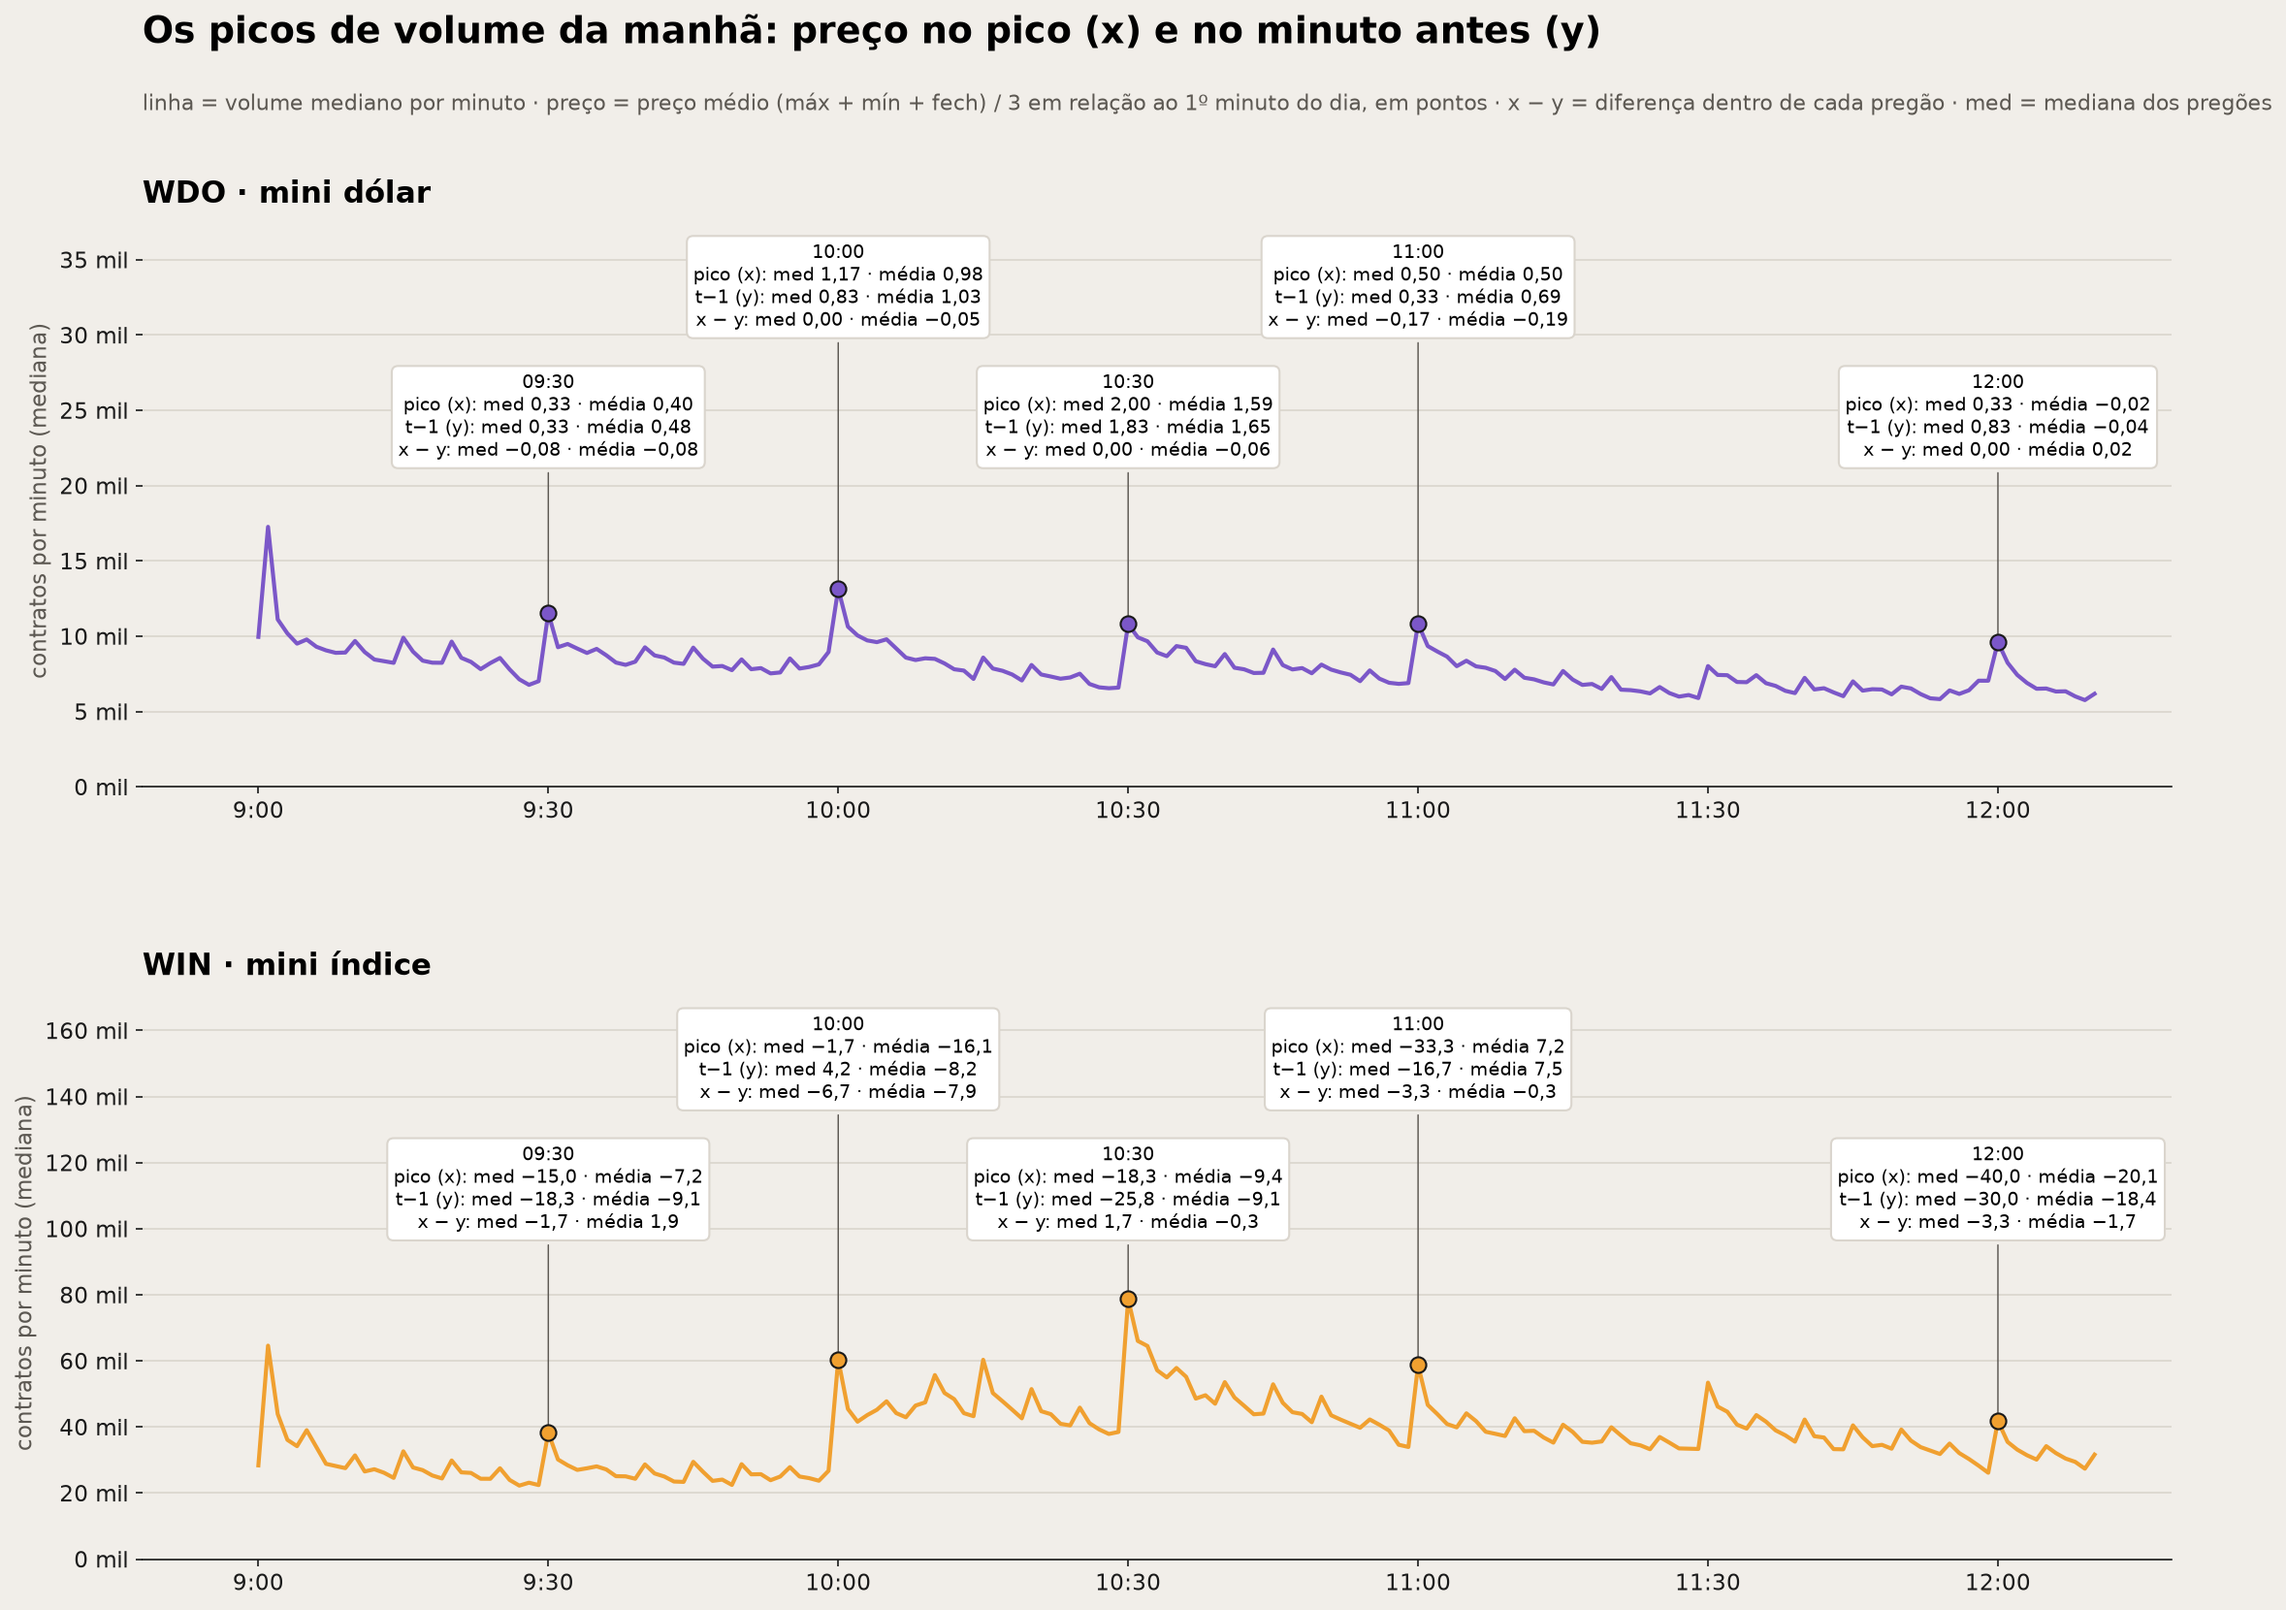
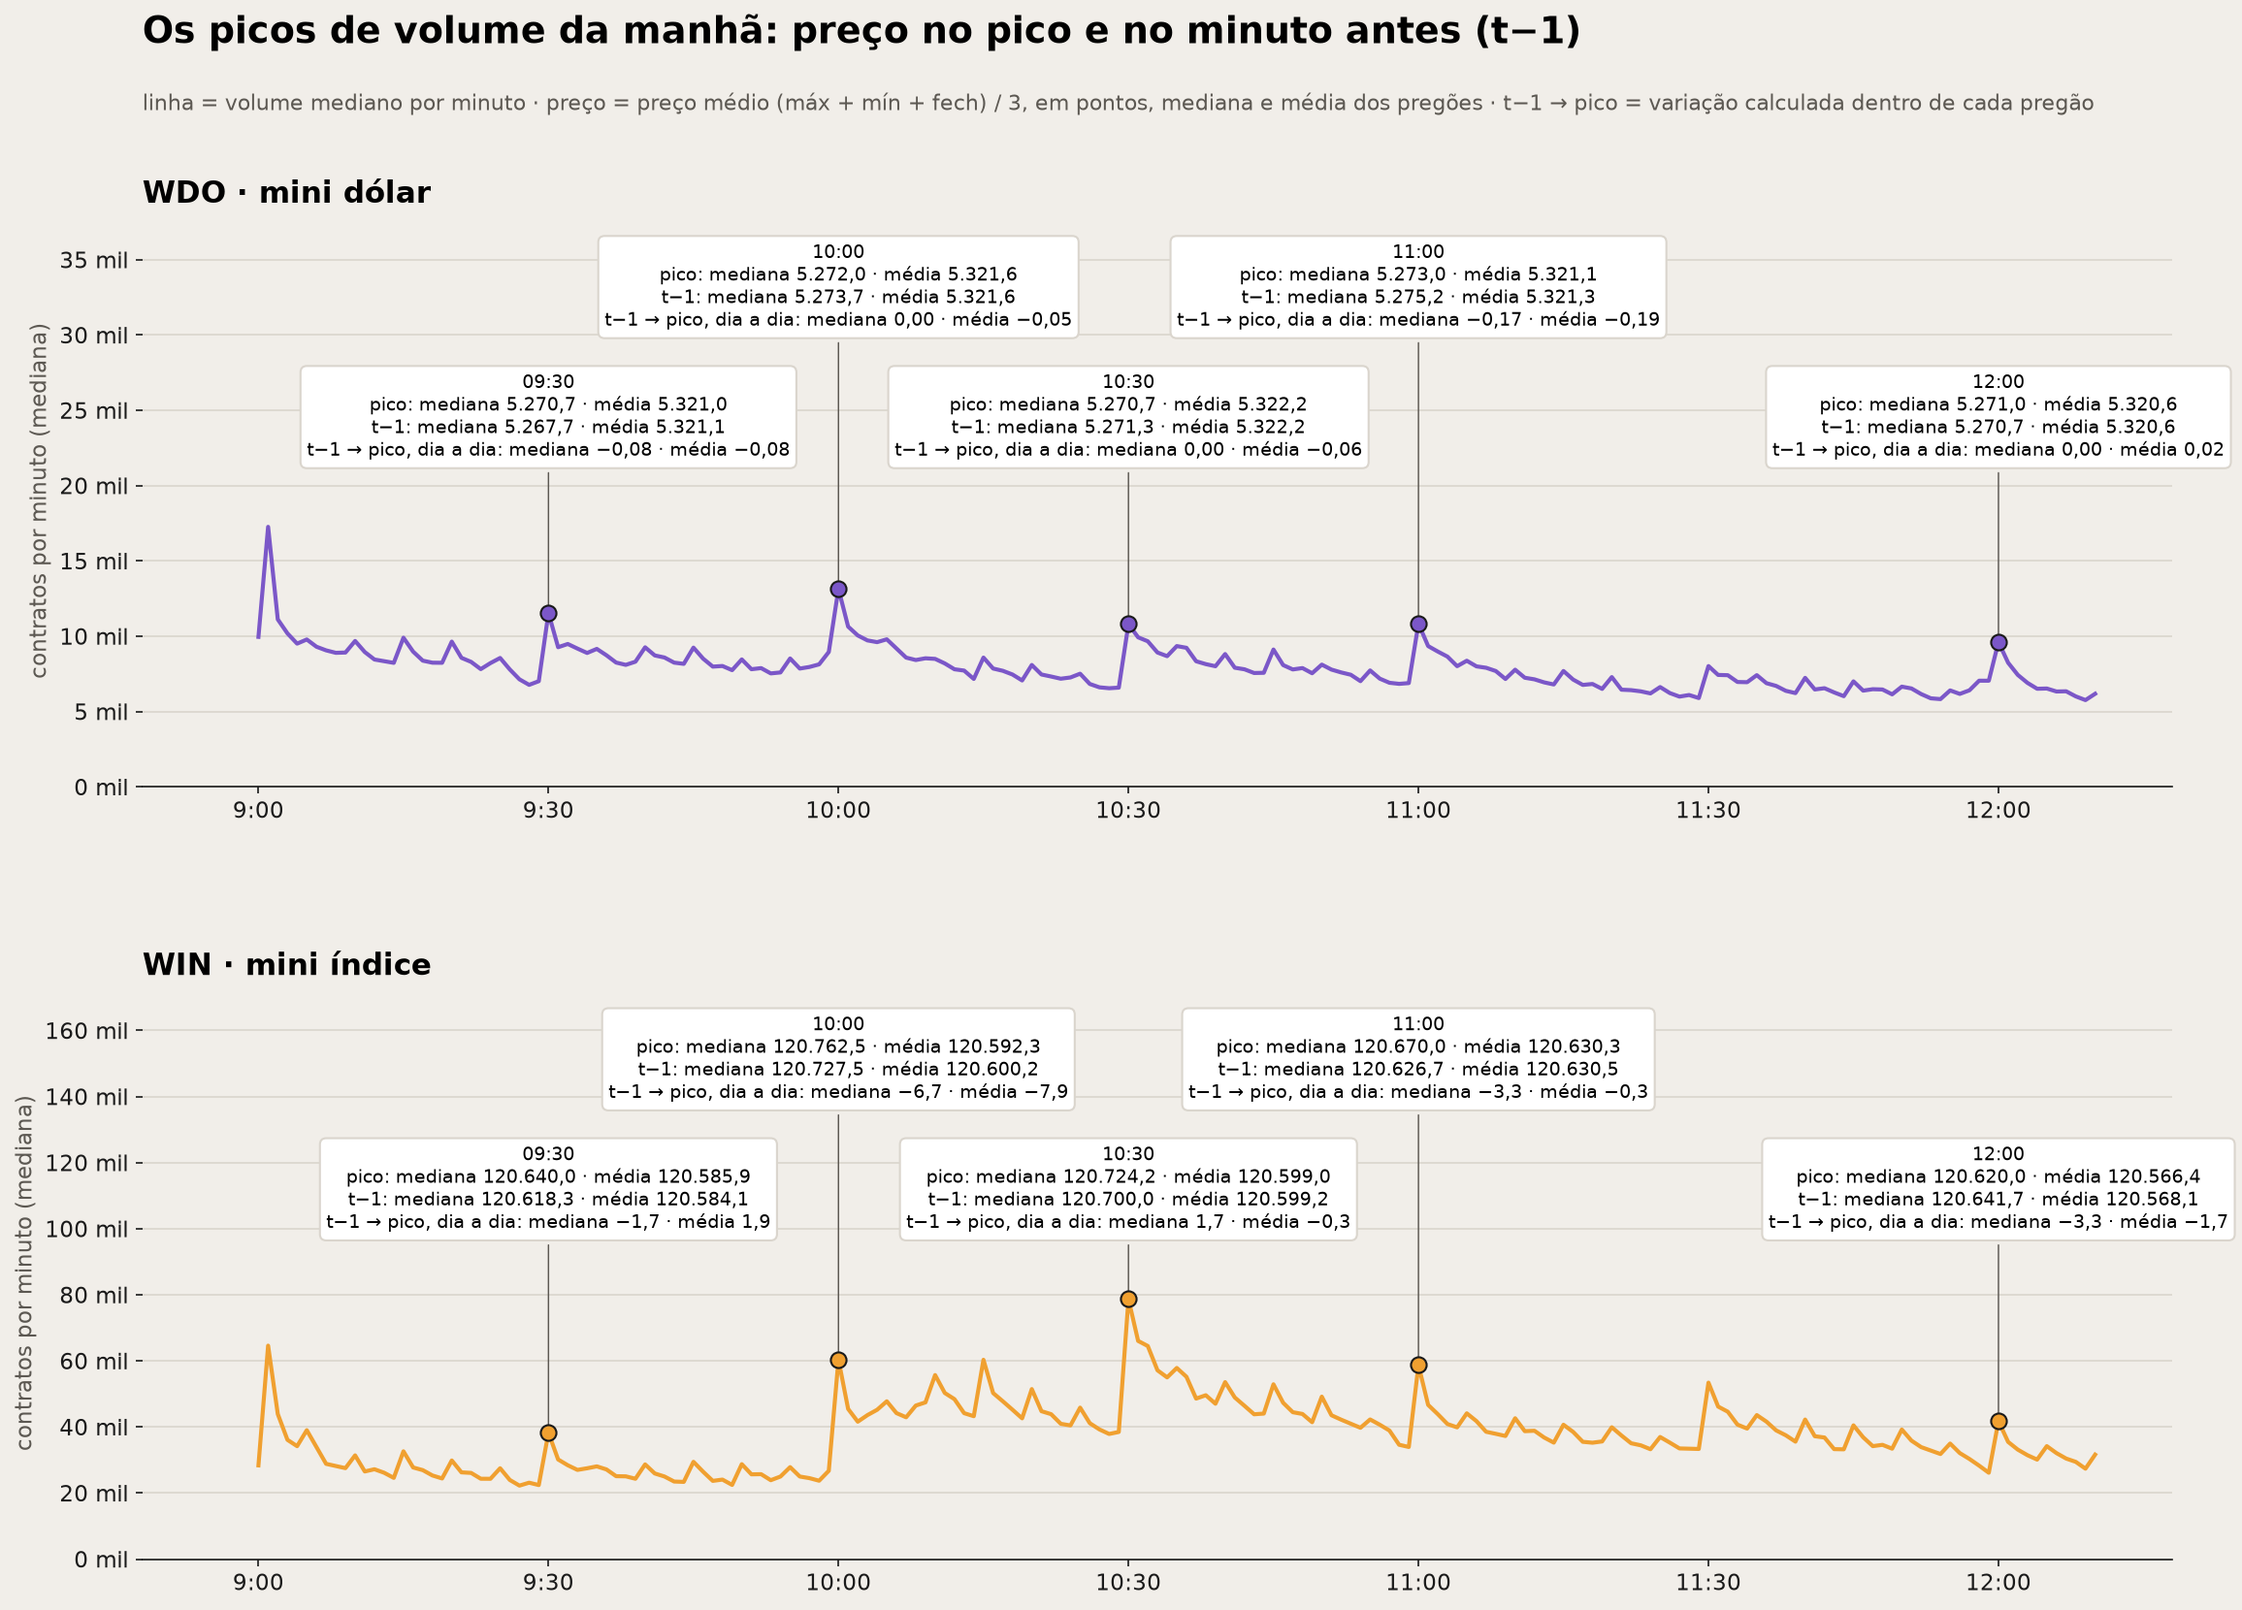
feat(bigplayer): parte 2, picos da manhã com mediana e média do preço no pico e em t-1

diff --git a/bigplayer/pt2/03_minuto_antes_volume.py b/bigplayer/pt2/03_minuto_antes_volume.py
@@ -393,16 +393,15 @@ plt.show()
 
 # %% [markdown]
 # ## 9. Só a manhã: os 5 picos até 12h, com mediana e média logo acima de cada pico
-# x = preço no pico, y = preço no minuto antes, os dois em relação à abertura do dia;
-# x − y = diferença dentro de cada pregão.
+# Acima de cada pico: mediana e média do preço médio (o preço em si, em pontos) no minuto do pico e no minuto
+# antes (t−1), e a variação de t−1 para o pico calculada dentro de cada pregão.
 
 # %%
 MORNING_END = time(12, 10)
 fig, axes = plt.subplots(2, 1, figsize=(18, 12), gridspec_kw={"hspace": 0.35})
 for ax, (asset, name) in zip(axes, ASSETS.items()):
-    b = bars[asset].copy()
-    b["desde_abertura"] = b["preco_medio"] - b.groupby("session_date")["preco_medio"].transform("first")
-    rel = b.pivot(index="session_date", columns="minuto", values="desde_abertura")
+    b = bars[asset]
+    level = b.pivot(index="session_date", columns="minuto", values="preco_medio")
     morning = b[b["minuto"] <= MORNING_END]
     med = morning.groupby("minuto")["vol"].median()
     xs = [minutes_since_nine(t) for t in med.index]
@@ -411,14 +410,14 @@ for ax, (asset, name) in zip(axes, ASSETS.items()):
     decimals = 2 if asset == "WDO" else 1
     for i, t in enumerate(PEAKS):
         before = (datetime.combine(date(2000, 1, 1), t) - timedelta(minutes=1)).time()
-        d = pd.DataFrame({"x": rel[t], "y": rel[before]}).dropna()
+        d = pd.DataFrame({"x": level[t], "y": level[before]}).dropna()
         diff = d["x"] - d["y"]
         xp = minutes_since_nine(t)
         ax.scatter([xp], [med[t]], s=60, color=COLOR[asset], edgecolor=INK, zorder=4)
         text = (f"{t:%H:%M}\n"
-                f"pico (x): med {br(d['x'].median(), decimals)} · média {br(d['x'].mean(), decimals)}\n"
-                f"t−1 (y): med {br(d['y'].median(), decimals)} · média {br(d['y'].mean(), decimals)}\n"
-                f"x − y: med {br(diff.median(), decimals)} · média {br(diff.mean(), decimals)}")
+                f"pico: mediana {br_level(d['x'].median())} · média {br_level(d['x'].mean())}\n"
+                f"t−1: mediana {br_level(d['y'].median())} · média {br_level(d['y'].mean())}\n"
+                f"t−1 → pico, dia a dia: mediana {br(diff.median(), decimals)} · média {br(diff.mean(), decimals)}")
         ax.annotate(text, xy=(xp, med[t]), xytext=(xp, top * (1.25 if i % 2 == 0 else 1.75)), ha="center", va="bottom",
                     fontsize=9, bbox=dict(boxstyle="round,pad=0.35", fc="white", ec=GRID),
                     arrowprops=dict(arrowstyle="-", color=INK_2, lw=0.7))
@@ -429,10 +428,10 @@ for ax, (asset, name) in zip(axes, ASSETS.items()):
     ax.yaxis.set_major_formatter(mil_axis)
     ax.set_ylabel("contratos por minuto (mediana)")
     ax.set_title(f"{asset} · {name}", loc="left", fontsize=15, fontweight="bold")
-fig.suptitle("Os picos de volume da manhã: preço no pico (x) e no minuto antes (y)", x=0.125, y=0.995, ha="left",
+fig.suptitle("Os picos de volume da manhã: preço no pico e no minuto antes (t−1)", x=0.125, y=0.995, ha="left",
              fontsize=18, fontweight="bold")
-fig.text(0.125, 0.94, "linha = volume mediano por minuto · preço = preço médio (máx + mín + fech) / 3 em relação ao "
-         "1º minuto do dia, em pontos · x − y = diferença dentro de cada pregão · med = mediana dos pregões",
+fig.text(0.125, 0.94, "linha = volume mediano por minuto · preço = preço médio (máx + mín + fech) / 3, em pontos, "
+         "mediana e média dos pregões · t−1 → pico = variação calculada dentro de cada pregão",
          fontsize=10.5, color=INK_2)
 fig.savefig(FIGURES / "picos_manha.png", dpi=150, bbox_inches="tight")
 plt.show()
